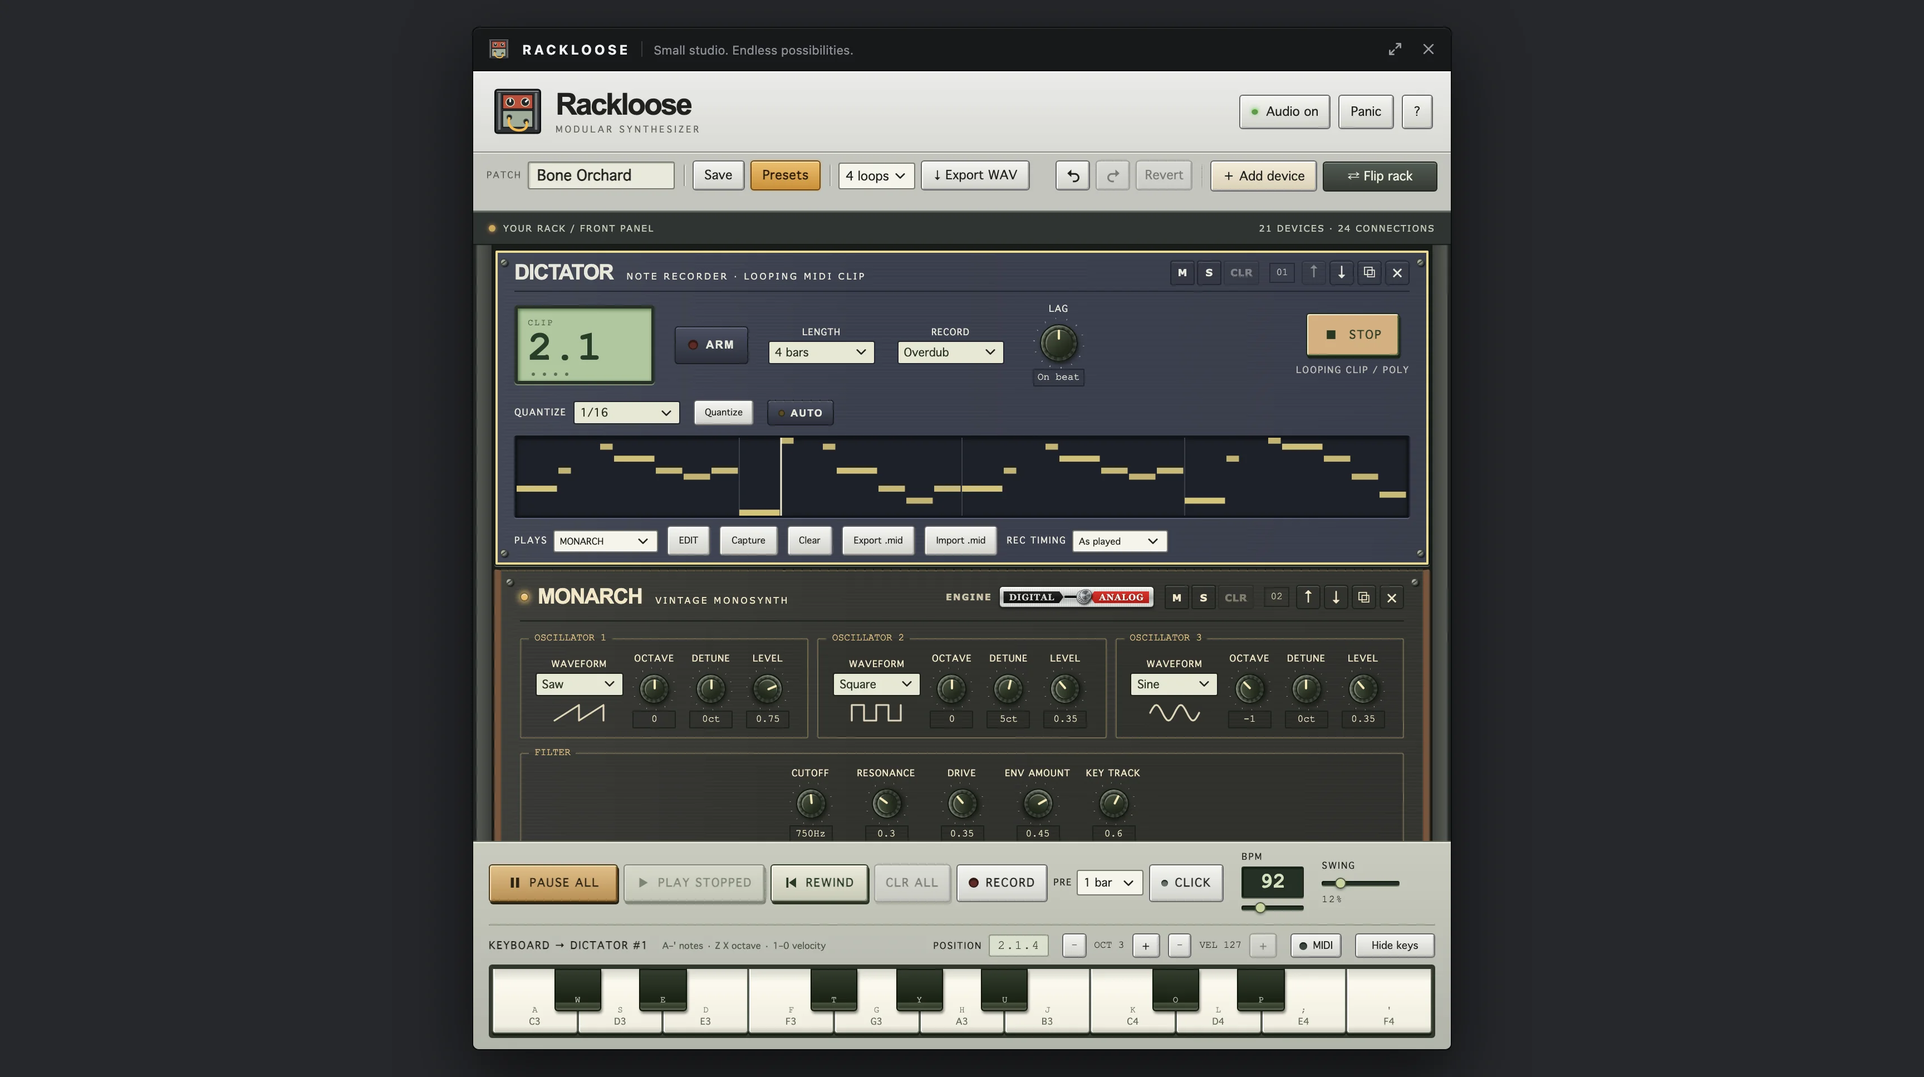
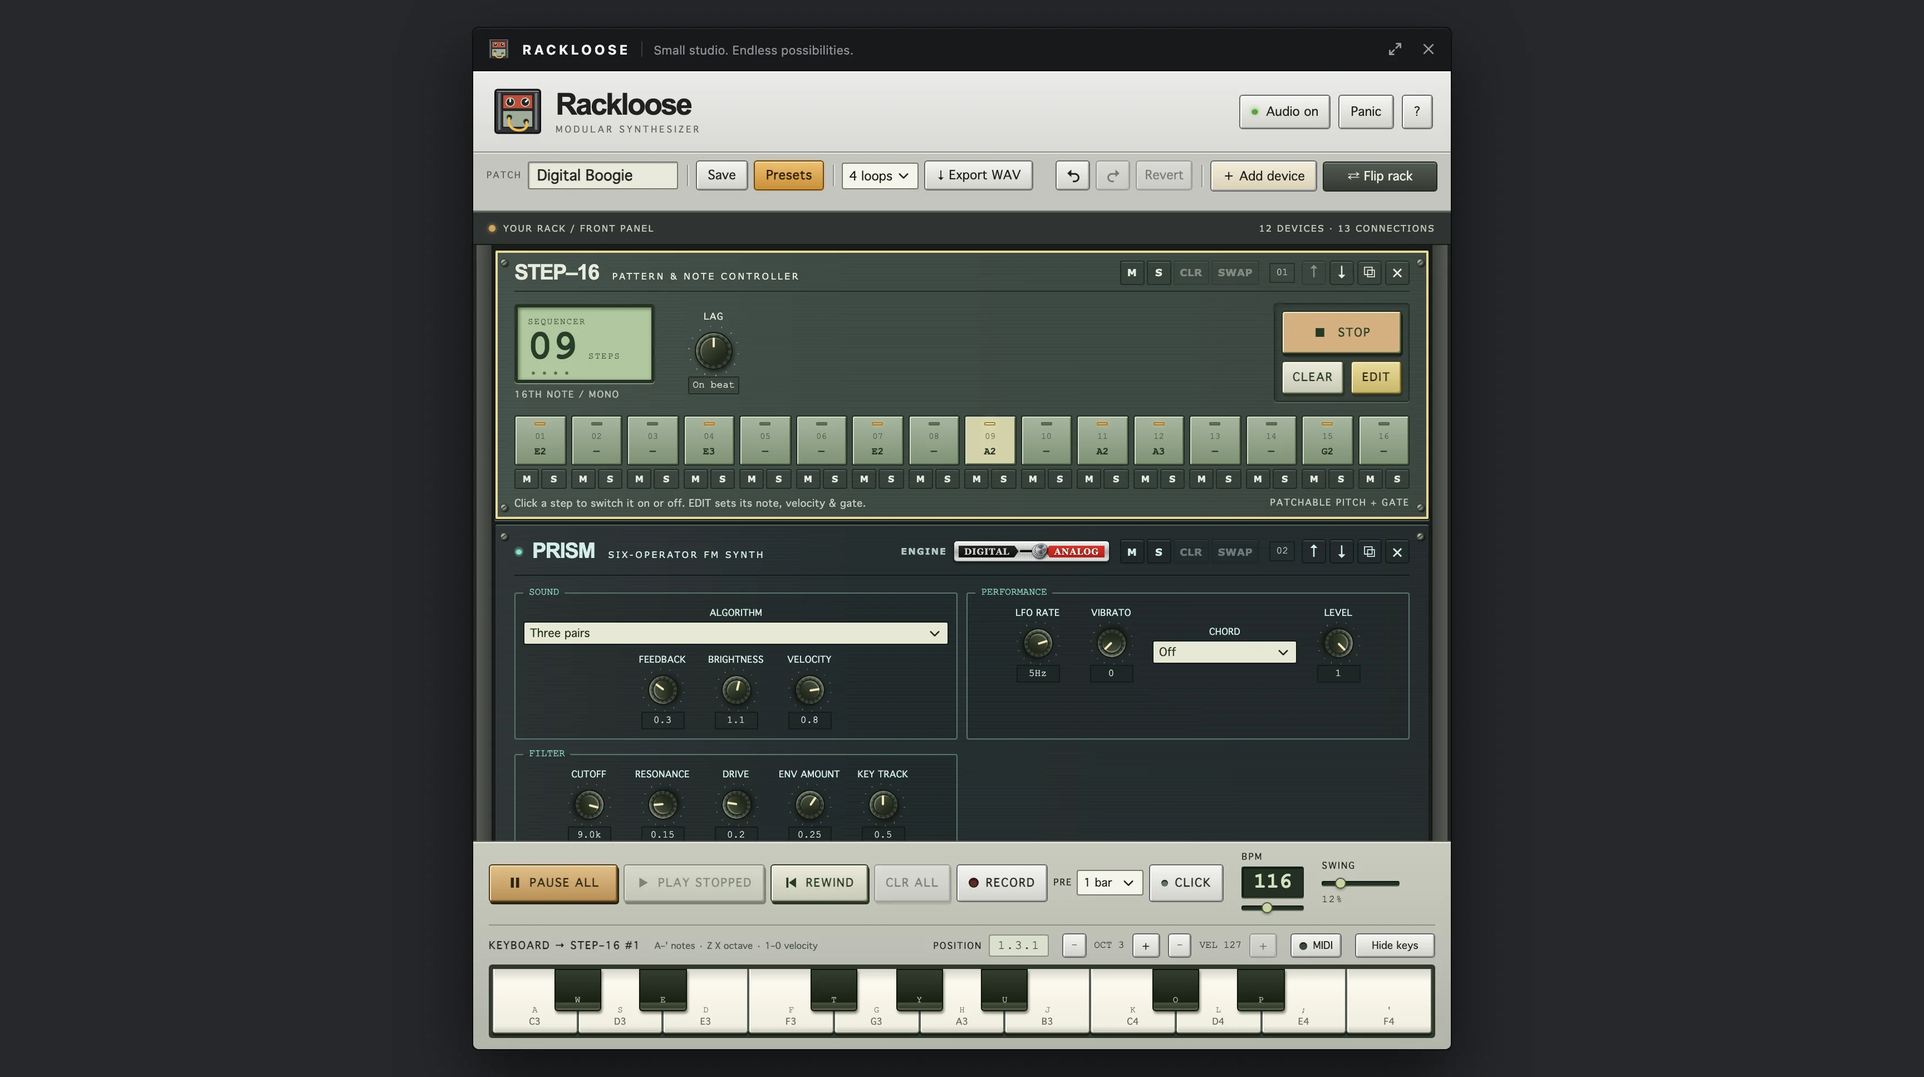
Give Rackloose's case study a Bone Orchard hero and 2.6.0 screenshots (v1.7.1)
The opening hero on both tabs is now Bone Orchard playing, with DICTATOR's
looping clip across the top, served with its own 640 to 1920px copies. High
Dive's front panel, the old hero, moves to The What's Product Summary.

Product Screens' Patching pair no longer looks alike: the rear panel is
Bone Orchard's (DICTATOR into MONARCH, RUST, and CONSOLE) beside High Dive's
mid-drag shot. The windowed Front Panel shot plays Digital Boogie, so it
repeats neither the hero nor the AURORA and club booth shots.

Every other shot is recaptured from the live 2.6.0 studio, Mike OS, and Bar
Four, keeping its preset and framing. The capture script writes the hero's
copies, waits for any device in Mike OS's rack (2.5 opens on Bone Orchard,
which has no STEP-16), and drops two unused shots.

diff --git a/scripts/capture-rackloose-screenshots.js b/scripts/capture-rackloose-screenshots.js
@@ -9,7 +9,9 @@
  * playing so steps, LEDs, and meters are lit. Close-ups lay the rack out
  * 1280px wide and crop a 16:9 frame around the named devices at 2.7x, so they
  * come out 3456px wide too. Phone shots are 393x852 at 3x, cropped to the
- * 1284:2778 shape the site's phone bezel holds and saved at 642x1389.
+ * 1284:2778 shape the site's phone bezel holds and saved at 642x1389. The
+ * opening hero also gets the 640, 960, 1440, and 1920px copies its srcset
+ * offers (see src/lib/responsiveImages.ts).
  *
  * Every shot gets a fresh browser context, so no patch, preset, or setting
  * carries over. Status toasts are hidden, focus is cleared, the pointer is
@@ -45,13 +47,17 @@ const DESKTOP = { viewport: { width: 1728, height: 967 }, deviceScaleFactor: 2 }
 const CLOSE_UP = { viewport: { width: 1280, height: 1700 }, deviceScaleFactor: 2.7 };
 const PHONE = { viewport: { width: 393, height: 852 }, deviceScaleFactor: 3, isMobile: true, hasTouch: true };
 const PHONE_OUT = { width: 642, height: 1389 };
+// The widths HERO_COPY_WIDTHS in src/lib/responsiveImages.ts expects beside a hero.
+const HERO_COPY_WIDTHS = [640, 960, 1440, 1920];
 
 const SHOTS = [
-  // The opening view of the default preset, playing, with the keys showing.
+  // The opening hero: Bone Orchard playing, DICTATOR's clip across the top.
+  { name: 'rackloose-hero', preset: 'Bone Orchard', play: true, keys: true, heroCopies: true },
+  // High Dive's front panel, playing, with the keys showing.
   { name: 'rackloose-front', preset: 'High Dive', play: true, keys: true },
-  // The standalone page as it opens: the rack in its own window.
-  { name: 'rackloose-window', windowed: true, preset: 'Bone Orchard', play: true, keys: true },
-  { name: 'rackloose-rear', preset: 'High Dive', play: true, flip: true },
+  // The rack in its own window, as the standalone page opens it.
+  { name: 'rackloose-window', windowed: true, preset: 'Digital Boogie', play: true, keys: true },
+  { name: 'rackloose-rear', preset: 'Bone Orchard', play: true, flip: true },
   // A cable on its way from a spare jack, with the free jacks it fits lit.
   { name: 'rackloose-patching', preset: 'High Dive', flip: true, drag: { from: 'STEP–16 Pitch · 1V/oct output 2', to: 'SIEVE Cutoff CV input', reach: 0.72 } },
   { name: 'rackloose-presets', preset: 'Neon Skyline', play: true, open: 'Presets' },
@@ -69,9 +75,7 @@ const SHOTS = [
   { name: 'rackloose-boom', closeUp: ['BOOM'], preset: 'High Dive', play: true },
   { name: 'rackloose-strike', closeUp: ['STRIKE'], preset: 'Neon Skyline', play: true },
   { name: 'rackloose-forge', closeUp: ['FORGE'], preset: 'Bone Orchard', play: true },
-  { name: 'rackloose-dictator', closeUp: ['DICTATOR', 'MONARCH'], preset: 'Bone Orchard', play: true },
   { name: 'rackloose-piano-roll', closeUp: ['DICTATOR'], preset: 'Bone Orchard', play: true, edit: 'Edit DICTATOR #1 notes' },
-  { name: 'rackloose-sum', closeUp: ['SUM'], preset: 'Neon Skyline', play: true },
   { name: 'rackloose-talon', closeUp: ['TALON'], preset: 'Bone Orchard', play: true },
   { name: 'rackloose-brit', closeUp: ['BRIT'], preset: 'Neon Skyline', play: true },
   { name: 'rackloose-valve', closeUp: ['VALVE', 'MAIN'], preset: 'High Dive', play: true },
@@ -148,7 +152,7 @@ async function openMikeOs(page, shot) {
   await page.getByRole('button', { name: 'Decline', exact: true }).click();
   await page.getByRole('button', { name: 'Close', exact: true }).first().click();
   await page.getByRole('button', { name: 'Rackloose', exact: true }).dblclick();
-  await page.locator('article[aria-label^="STEP–16 "]').first().waitFor();
+  await page.locator('[class*=_rack_] article').first().waitFor();
   await prepareRack(page, page, { ...shot, keys: true });
 }
 
@@ -240,6 +244,12 @@ async function capture(browser, shot, tmpDir) {
         .toFile(out);
     } else {
       execFileSync('cwebp', ['-q', '85', png, '-o', out], { stdio: 'pipe' });
+    }
+    if (shot.heroCopies) {
+      const { width: naturalWidth } = await sharp(png).metadata();
+      for (const width of HERO_COPY_WIDTHS.filter((copyWidth) => copyWidth < naturalWidth)) {
+        await sharp(png).resize(width).webp({ quality: 80 }).toFile(path.join(OUT_DIR, `${shot.name}-${width}w.webp`));
+      }
     }
     console.log(`captured ${shot.name}.webp`);
   } finally {

diff --git a/src/components/rackloose/caseStudyData.tsx b/src/components/rackloose/caseStudyData.tsx
@@ -9,8 +9,8 @@ const phone = (file: string, alt: string): CaseStudyImage => ({ src: `${DIR}/${f
 const screen = (file: string, alt: string): CaseStudyImage => ({ src: `${DIR}/${file}`, alt });
 
 const HERO = screen(
-  'rackloose-front.webp',
-  'Rackloose front panel playing the High Dive preset, with STEP–16, SOLID, SIEVE, and LEVEL above the transport and keyboard'
+  'rackloose-hero.webp',
+  'Rackloose front panel playing the Bone Orchard preset, with DICTATOR’s looping MIDI clip and MONARCH above the transport and keyboard'
 );
 
 const MIKE_OS = screen('rackloose-mike-os.webp', 'Rackloose open in a window on the Mike OS desktop, playing the Trap Soul preset');
@@ -38,7 +38,7 @@ export const RACKLOOSE_CASE_STUDY: CaseStudyData = {
     {
       title: 'Product Summary',
       description: 'Rackloose is a studio rack in the browser. Synths, drum machines, sequencers, a mixer, and effects stack in one column, and every one of them is an original design. Press Play All and a preset is making music before you touch a cable. It runs as its own site and as a React component other sites can drop in.',
-      image: screen('rackloose-window.webp', 'Rackloose in windowed mode playing Bone Orchard, with DICTATOR and MONARCH above the transport and keyboard')
+      image: screen('rackloose-front.webp', 'Rackloose front panel playing the High Dive preset, with STEP–16, SOLID, SIEVE, and LEVEL above the transport and keyboard')
     },
     {
       title: 'The Challenge',
@@ -174,7 +174,7 @@ export const RACKLOOSE_CASE_STUDY: CaseStudyData = {
         copy: 'The front panel is where the music happens: knobs, step buttons, and the transport and keyboard along the bottom. The studio fills the screen or shrinks into a window.',
         images: [
           screen('rackloose-voice.webp', 'SOLID oscillator, SIEVE filter, LEVEL amplifier, and CONTOUR envelope on the front panel'),
-          screen('rackloose-window.webp', 'Rackloose in windowed mode playing Bone Orchard')
+          screen('rackloose-window.webp', 'Rackloose in windowed mode playing Digital Boogie')
         ]
       },
       {
@@ -182,7 +182,7 @@ export const RACKLOOSE_CASE_STUDY: CaseStudyData = {
         title: 'Patching',
         copy: 'Flip the rack to patch. Cables are colored by signal, each jack takes one cable, and a drag lights up only the jacks that fit.',
         images: [
-          screen('rackloose-rear.webp', 'Rackloose rear panel for the High Dive preset with STEP–16, SOLID, SIEVE, and LEVEL patched'),
+          screen('rackloose-rear.webp', 'Rackloose rear panel for the Bone Orchard preset, with DICTATOR’s pitch and gate cables running to MONARCH and MONARCH’s audio through RUST and CONSOLE'),
           screen('rackloose-patching.webp', 'A cable mid-drag on the rear panel with compatible jacks highlighted')
         ]
       },

diff --git a/src/lib/responsiveImages.ts b/src/lib/responsiveImages.ts
@@ -25,7 +25,7 @@ export const HERO_IMAGE_WIDTHS: Readonly<Record<string, number>> = {
   '/img/projects/adam-chiappone/ac-home-cropped.webp': 3456,
   '/img/projects/bars-of-sand/bars-of-sand-hero.webp': 3456,
   '/img/projects/fyfs/fyfs-wave.webp': 1536,
-  '/img/projects/rackloose/rackloose-front.webp': 3456,
+  '/img/projects/rackloose/rackloose-hero.webp': 3456,
   '/img/projects/riptyde/riptyde-case-study-hero.webp': 3456,
   '/img/projects/timefraim/timefraim-planner.webp': 3456,
 };

diff --git a/AGENTS.md b/AGENTS.md
@@ -104,7 +104,7 @@ zickonezero/
 - `scripts/capture-riptyde-ios-screenshot.js <name> [device]` saves the booted iOS Simulator's screen as a Riptyde phone screenshot: `xcrun simctl io` takes a PNG, which is cropped from the top to 1284:2778, scaled to 642x1389, and written as a quality 85 WebP; a frame with the Dynamic Island drawn into it is retaken. Build the sibling `riptyde` app into the simulator, sign in, and override the status bar first (the script's header has the command).
 - `scripts/capture-riptyde-web-screenshots.js` recaptures the Riptyde web shots from the live riptyde.app, signed out, at 1728x967 and 2x, with analytics declined before the first load and analytics hosts blocked (same Playwright/cwebp requirements). Pass a shot name to capture only that image.
 - `scripts/render-riptyde-hero.js` renders the Riptyde case study's 3456x1944 opening hero (three phone screens in the site's phone bezel on Riptyde's navy halftone, colors from the app's `SurfStyle.swift`) and its 640, 960, 1440, and 1920px copies. Its three screens must stay off the rest of the UX Case Study tab. Requires Playwright.
-- `scripts/capture-rackloose-screenshots.js` recaptures the Rackloose shots from the live studio, Mike OS on michaelzick.com, and Bar Four's booth on www.zickonezero.com, each in a fresh browser context with a factory preset playing: full studio shots at 1728x967 and 2x, 16:9 device close-ups cropped at 2.7x, and phone shots at 393x852 and 3x saved at 642x1389. Toasts, focus, and the pointer are cleared, analytics hosts are blocked, and Mike OS's consent prompt is declined (same Playwright/cwebp requirements). Pass shot names to capture only those images.
+- `scripts/capture-rackloose-screenshots.js` recaptures the Rackloose shots from the live studio, Mike OS on michaelzick.com, and Bar Four's booth on www.zickonezero.com, each in a fresh browser context with a factory preset playing: full studio shots at 1728x967 and 2x, 16:9 device close-ups cropped at 2.7x, and phone shots at 393x852 and 3x saved at 642x1389. The opening hero (Bone Orchard, DICTATOR across the top) also gets its 640, 960, 1440, and 1920px copies (sharp, quality 80). Toasts, focus, and the pointer are cleared, analytics hosts are blocked, and Mike OS's consent prompt is declined (same Playwright/cwebp requirements). Pass shot names to capture only those images.
 - `scripts/capture-timefraim-screenshots.js` recaptures the TimeFraim showcase screenshots from the local screenshot sandbox as 2x-desktop WebP images (three dark planner shots, the Board in light mode, and a light calendar-only planner day captured after clearing the seeded tasks through SQL), signing in with a Supabase magic link and fixing the browser clock to the seeded days; it restores the seed when it starts and finishes, so it can be re-run without restarting the sandbox. Run it with `node --env-file=<timefraim>/.env` after `scripts/timefraim-sandbox/start.sh` (same Playwright/cwebp requirements).
 - `scripts/timefraim-sandbox/start.sh`, `stop.sh`, and `seed.sql` run an isolated local Supabase project (`timefraim-shots`, started with `supabase start --workdir`) seeded with the sample planner days and start the sibling `timefraim` checkout's app against it on the app's usual ports; they never touch the real `supabase_db_timefraim` volume. Requires Docker, the Supabase CLI, corepack/pnpm, and the `timefraim` repo with its `.env`.
 - `scripts/capture-12-step-meetings-screenshots.js` recaptures the 12 Step Meetings showcase screenshots from the live 12stepmeetings.org as 2x-desktop WebP images, driving each view through query parameters with a ticking fake clock so the upcoming order and map tiles are stable (same Playwright/cwebp requirements). Pass a shot name to capture only that image. The “Find a meeting that fits” section opens with “Finding support should be easy and intuitive.” and describes program, day, time, and location filters. Its list image has program, day, and time filters active and the location menu open to city suggestions for “Santa”, before a location is selected. Capturing this native browser menu requires a visible Chromium window, macOS Screen Recording access, and a 2x display at least 1728x1087 logical pixels, using the calibrated content rectangle documented in the script.

diff --git a/CLAUDE.md b/CLAUDE.md
@@ -104,7 +104,7 @@ zickonezero/
 - `scripts/capture-riptyde-ios-screenshot.js <name> [device]` saves the booted iOS Simulator's screen as a Riptyde phone screenshot: `xcrun simctl io` takes a PNG, which is cropped from the top to 1284:2778, scaled to 642x1389, and written as a quality 85 WebP; a frame with the Dynamic Island drawn into it is retaken. Build the sibling `riptyde` app into the simulator, sign in, and override the status bar first (the script's header has the command).
 - `scripts/capture-riptyde-web-screenshots.js` recaptures the Riptyde web shots from the live riptyde.app, signed out, at 1728x967 and 2x, with analytics declined before the first load and analytics hosts blocked (same Playwright/cwebp requirements). Pass a shot name to capture only that image.
 - `scripts/render-riptyde-hero.js` renders the Riptyde case study's 3456x1944 opening hero (three phone screens in the site's phone bezel on Riptyde's navy halftone, colors from the app's `SurfStyle.swift`) and its 640, 960, 1440, and 1920px copies. Its three screens must stay off the rest of the UX Case Study tab. Requires Playwright.
-- `scripts/capture-rackloose-screenshots.js` recaptures the Rackloose shots from the live studio, Mike OS on michaelzick.com, and Bar Four's booth on www.zickonezero.com, each in a fresh browser context with a factory preset playing: full studio shots at 1728x967 and 2x, 16:9 device close-ups cropped at 2.7x, and phone shots at 393x852 and 3x saved at 642x1389. Toasts, focus, and the pointer are cleared, analytics hosts are blocked, and Mike OS's consent prompt is declined (same Playwright/cwebp requirements). Pass shot names to capture only those images.
+- `scripts/capture-rackloose-screenshots.js` recaptures the Rackloose shots from the live studio, Mike OS on michaelzick.com, and Bar Four's booth on www.zickonezero.com, each in a fresh browser context with a factory preset playing: full studio shots at 1728x967 and 2x, 16:9 device close-ups cropped at 2.7x, and phone shots at 393x852 and 3x saved at 642x1389. The opening hero (Bone Orchard, DICTATOR across the top) also gets its 640, 960, 1440, and 1920px copies (sharp, quality 80). Toasts, focus, and the pointer are cleared, analytics hosts are blocked, and Mike OS's consent prompt is declined (same Playwright/cwebp requirements). Pass shot names to capture only those images.
 - `scripts/capture-timefraim-screenshots.js` recaptures the TimeFraim showcase screenshots from the local screenshot sandbox as 2x-desktop WebP images (three dark planner shots, the Board in light mode, and a light calendar-only planner day captured after clearing the seeded tasks through SQL), signing in with a Supabase magic link and fixing the browser clock to the seeded days; it restores the seed when it starts and finishes, so it can be re-run without restarting the sandbox. Run it with `node --env-file=<timefraim>/.env` after `scripts/timefraim-sandbox/start.sh` (same Playwright/cwebp requirements).
 - `scripts/timefraim-sandbox/start.sh`, `stop.sh`, and `seed.sql` run an isolated local Supabase project (`timefraim-shots`, started with `supabase start --workdir`) seeded with the sample planner days and start the sibling `timefraim` checkout's app against it on the app's usual ports; they never touch the real `supabase_db_timefraim` volume. Requires Docker, the Supabase CLI, corepack/pnpm, and the `timefraim` repo with its `.env`.
 - `scripts/capture-12-step-meetings-screenshots.js` recaptures the 12 Step Meetings showcase screenshots from the live 12stepmeetings.org as 2x-desktop WebP images, driving each view through query parameters with a ticking fake clock so the upcoming order and map tiles are stable (same Playwright/cwebp requirements). Pass a shot name to capture only that image. The “Find a meeting that fits” section opens with “Finding support should be easy and intuitive.” and describes program, day, time, and location filters. Its list image has program, day, and time filters active and the location menu open to city suggestions for “Santa”, before a location is selected. Capturing this native browser menu requires a visible Chromium window, macOS Screen Recording access, and a 2x display at least 1728x1087 logical pixels, using the calibrated content rectangle documented in the script.

diff --git a/GEMINI.md b/GEMINI.md
@@ -104,7 +104,7 @@ zickonezero/
 - `scripts/capture-riptyde-ios-screenshot.js <name> [device]` saves the booted iOS Simulator's screen as a Riptyde phone screenshot: `xcrun simctl io` takes a PNG, which is cropped from the top to 1284:2778, scaled to 642x1389, and written as a quality 85 WebP; a frame with the Dynamic Island drawn into it is retaken. Build the sibling `riptyde` app into the simulator, sign in, and override the status bar first (the script's header has the command).
 - `scripts/capture-riptyde-web-screenshots.js` recaptures the Riptyde web shots from the live riptyde.app, signed out, at 1728x967 and 2x, with analytics declined before the first load and analytics hosts blocked (same Playwright/cwebp requirements). Pass a shot name to capture only that image.
 - `scripts/render-riptyde-hero.js` renders the Riptyde case study's 3456x1944 opening hero (three phone screens in the site's phone bezel on Riptyde's navy halftone, colors from the app's `SurfStyle.swift`) and its 640, 960, 1440, and 1920px copies. Its three screens must stay off the rest of the UX Case Study tab. Requires Playwright.
-- `scripts/capture-rackloose-screenshots.js` recaptures the Rackloose shots from the live studio, Mike OS on michaelzick.com, and Bar Four's booth on www.zickonezero.com, each in a fresh browser context with a factory preset playing: full studio shots at 1728x967 and 2x, 16:9 device close-ups cropped at 2.7x, and phone shots at 393x852 and 3x saved at 642x1389. Toasts, focus, and the pointer are cleared, analytics hosts are blocked, and Mike OS's consent prompt is declined (same Playwright/cwebp requirements). Pass shot names to capture only those images.
+- `scripts/capture-rackloose-screenshots.js` recaptures the Rackloose shots from the live studio, Mike OS on michaelzick.com, and Bar Four's booth on www.zickonezero.com, each in a fresh browser context with a factory preset playing: full studio shots at 1728x967 and 2x, 16:9 device close-ups cropped at 2.7x, and phone shots at 393x852 and 3x saved at 642x1389. The opening hero (Bone Orchard, DICTATOR across the top) also gets its 640, 960, 1440, and 1920px copies (sharp, quality 80). Toasts, focus, and the pointer are cleared, analytics hosts are blocked, and Mike OS's consent prompt is declined (same Playwright/cwebp requirements). Pass shot names to capture only those images.
 - `scripts/capture-timefraim-screenshots.js` recaptures the TimeFraim showcase screenshots from the local screenshot sandbox as 2x-desktop WebP images (three dark planner shots, the Board in light mode, and a light calendar-only planner day captured after clearing the seeded tasks through SQL), signing in with a Supabase magic link and fixing the browser clock to the seeded days; it restores the seed when it starts and finishes, so it can be re-run without restarting the sandbox. Run it with `node --env-file=<timefraim>/.env` after `scripts/timefraim-sandbox/start.sh` (same Playwright/cwebp requirements).
 - `scripts/timefraim-sandbox/start.sh`, `stop.sh`, and `seed.sql` run an isolated local Supabase project (`timefraim-shots`, started with `supabase start --workdir`) seeded with the sample planner days and start the sibling `timefraim` checkout's app against it on the app's usual ports; they never touch the real `supabase_db_timefraim` volume. Requires Docker, the Supabase CLI, corepack/pnpm, and the `timefraim` repo with its `.env`.
 - `scripts/capture-12-step-meetings-screenshots.js` recaptures the 12 Step Meetings showcase screenshots from the live 12stepmeetings.org as 2x-desktop WebP images, driving each view through query parameters with a ticking fake clock so the upcoming order and map tiles are stable (same Playwright/cwebp requirements). Pass a shot name to capture only that image. The “Find a meeting that fits” section opens with “Finding support should be easy and intuitive.” and describes program, day, time, and location filters. Its list image has program, day, and time filters active and the location menu open to city suggestions for “Santa”, before a location is selected. Capturing this native browser menu requires a visible Chromium window, macOS Screen Recording access, and a 2x display at least 1728x1087 logical pixels, using the calibrated content rectangle documented in the script.
